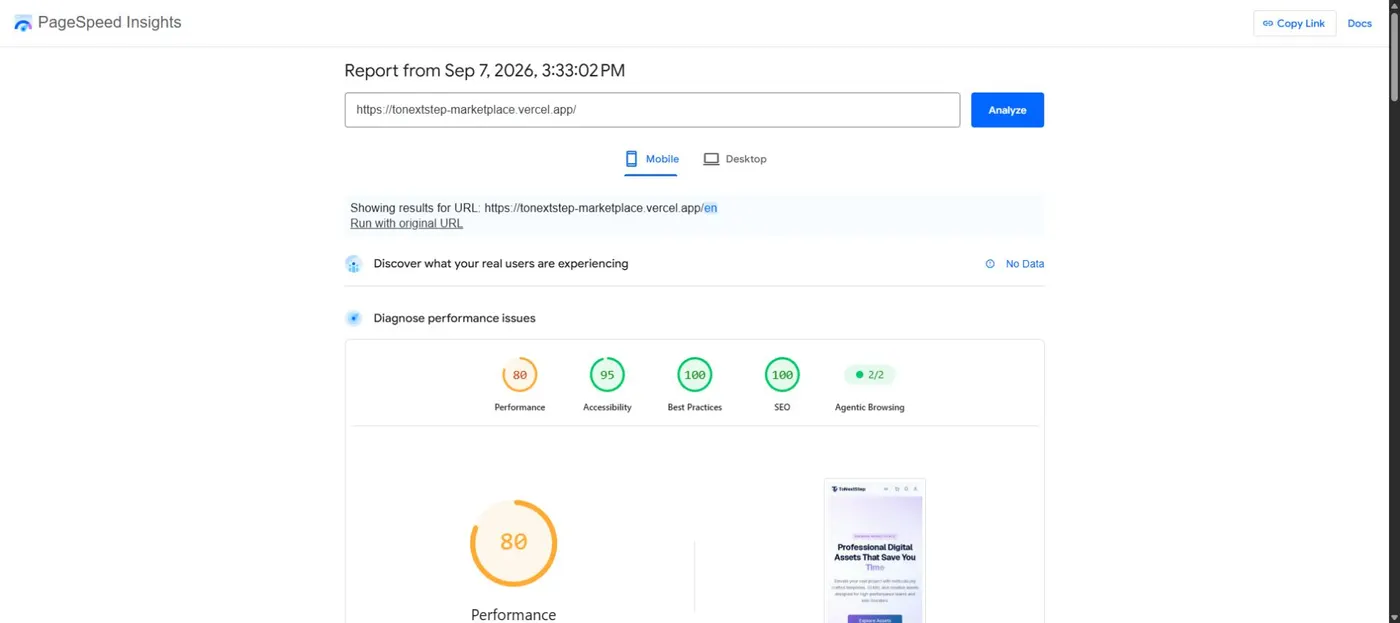
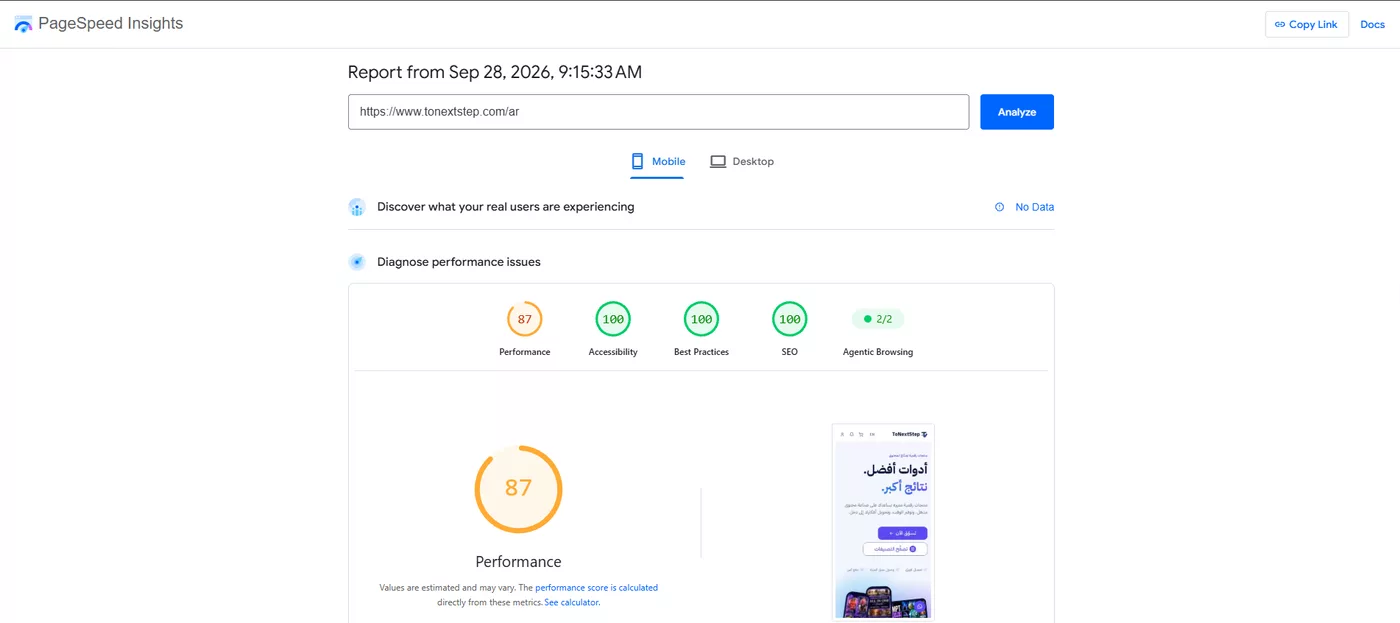
Refresh ToNextStep screenshots and PageSpeed scores
New cover, desktop/mobile gallery and PageSpeed reports from the live
site at tonextstep.com (Sep 28, 2026): 94 desktop, 87 mobile.

Claude-Session: https://claude.ai/code/session_013Y4KMnRyEeNGo3KDY61ZeR

diff --git a/data/projects.ts b/data/projects.ts
@@ -198,7 +198,7 @@ export const caseStudies: CaseStudy[] = [
       "Supabase",
       "Paddle",
     ],
-    performance: { desktop: 94, mobile: 80 },
+    performance: { desktop: 94, mobile: 87 },
     ...media("tonextstep-digital-marketplace"),
     coverAlt: "ToNextStep digital products marketplace — desktop and mobile",
     liveUrl: "https://www.tonextstep.com/",
